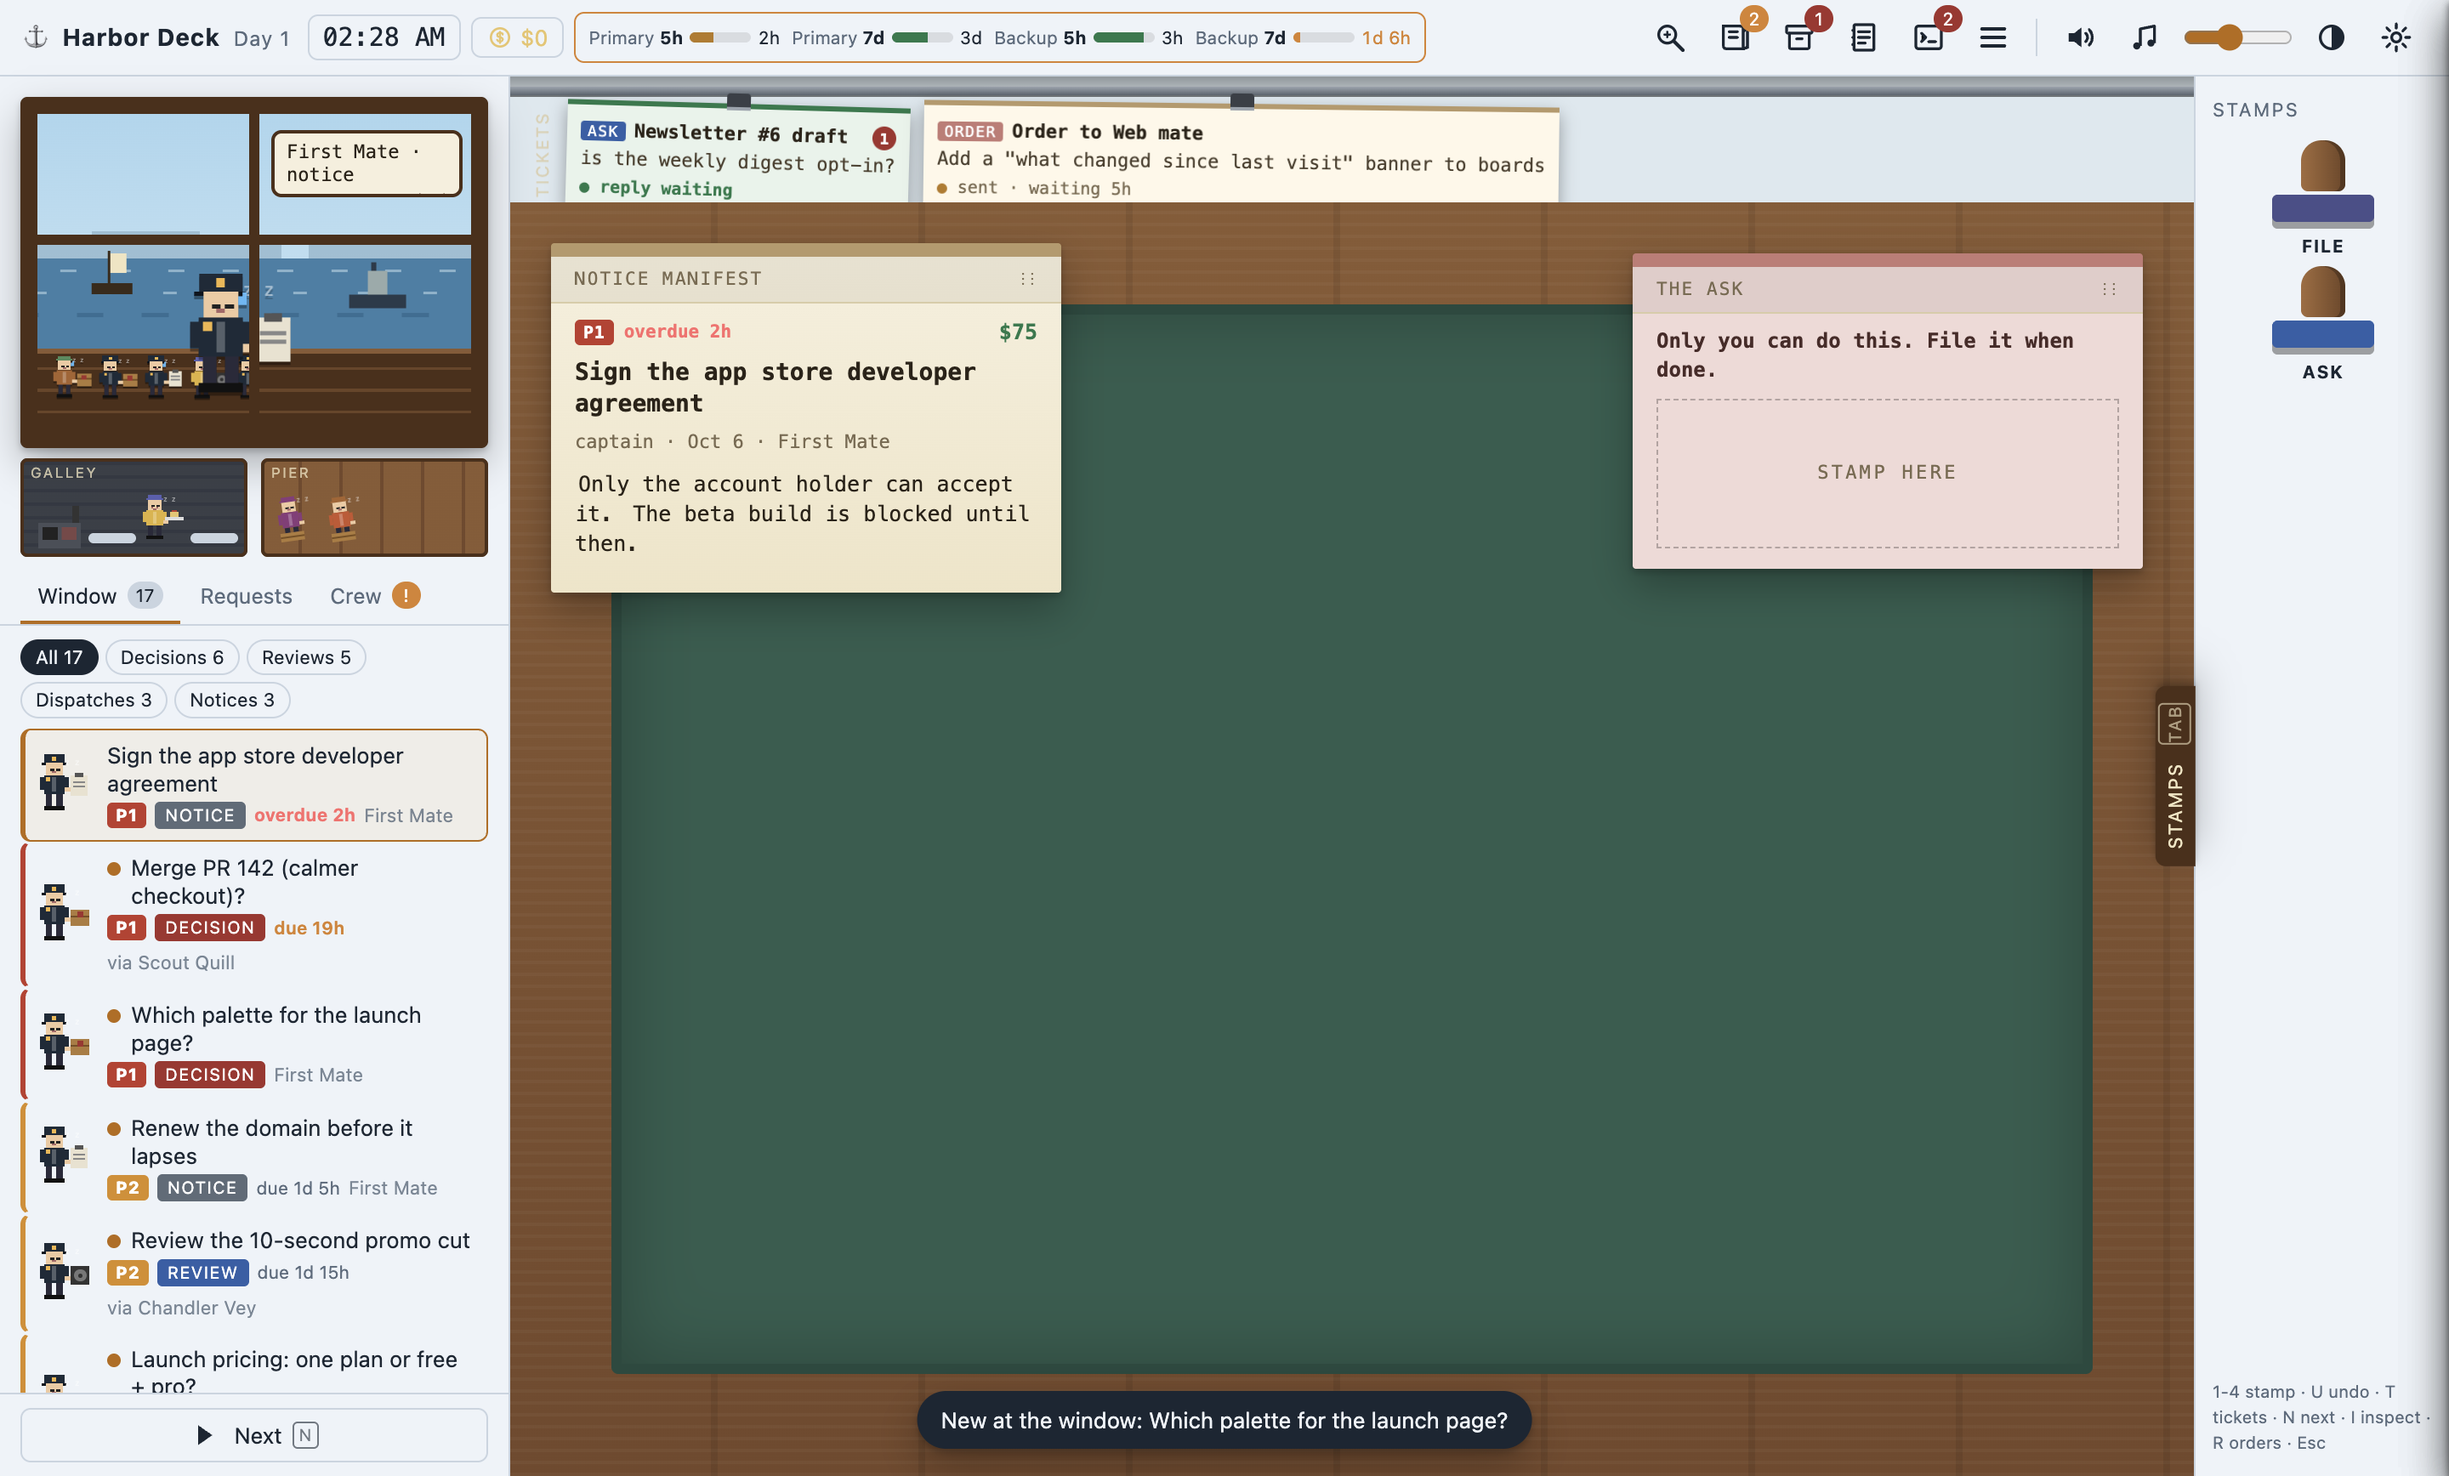
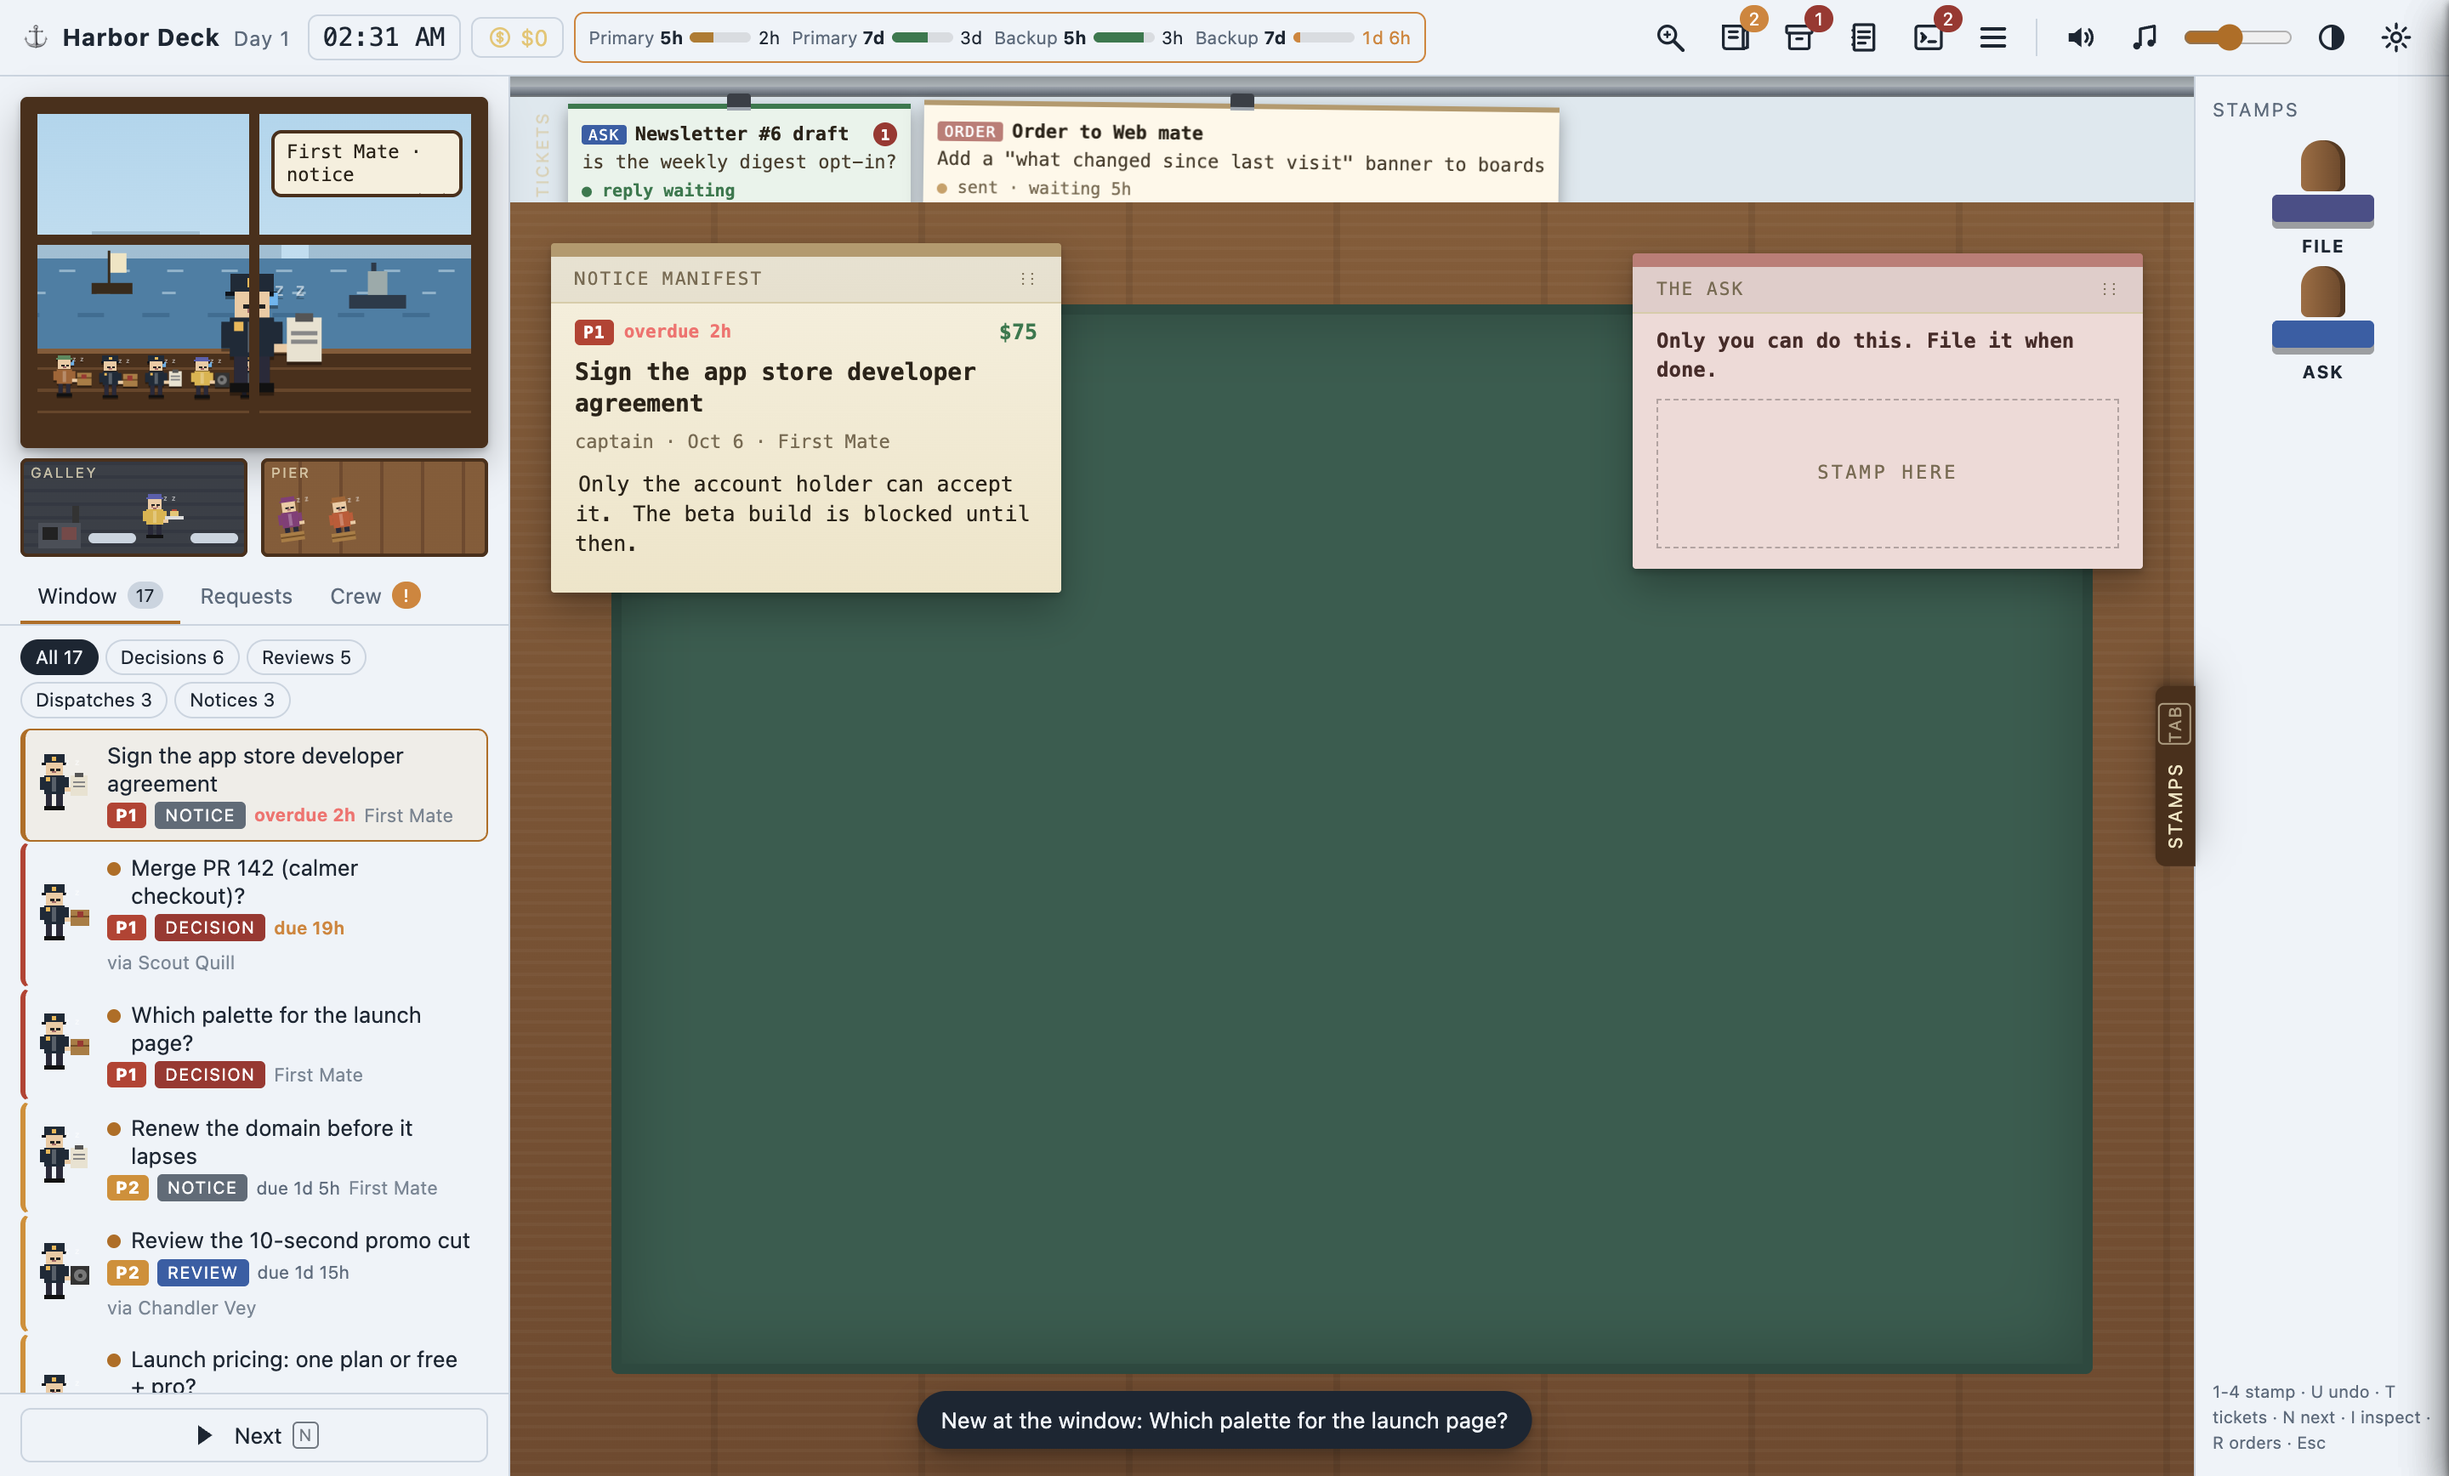
verify-harbordeck: move to .agents/skills (shared convention), relative symlinks from .claude/skills and .cursor/skills; proof rerun from new path

Changed region(s): [[0.2188, 0.0622, 0.375, 0.1555], [0.0625, 0.1866, 0.1562, 0.28]]

diff --git a/.agents/skills/verify-harbordeck/SKILL.md b/.agents/skills/verify-harbordeck/SKILL.md
@@ -13,7 +13,7 @@ Harbor Deck has three surfaces, all tied together by one data directory (`docs/C
 
 Read [`features/README.md`](features/README.md) before choosing a recipe. The feature map is the maintained verification source; a proof that drives one convenient entry point is incomplete when the map lists others.
 
-All paths below are relative to the worktree root. `H=.cursor/skills/verify-harbordeck/scripts/hdv` and `U=.cursor/skills/verify-harbordeck/scripts/ui.mjs` are the two helpers.
+The skill lives in `.agents/skills/verify-harbordeck/`; `.claude/skills/verify-harbordeck` and `.cursor/skills/verify-harbordeck` are relative symlinks to it, so every harness finds the same copy. Edit only the `.agents` path. All paths below are relative to the worktree root. `H=.agents/skills/verify-harbordeck/scripts/hdv` and `U=.agents/skills/verify-harbordeck/scripts/ui.mjs` are the two helpers.
 
 ## Isolation rules
 
@@ -28,7 +28,7 @@ All paths below are relative to the worktree root. `H=.cursor/skills/verify-harb
 Once per worktree: `npm install` (if Electron reports `failed to install correctly`: `npm approve-scripts electron && npm rebuild electron`).
 
 ```bash
-H=.cursor/skills/verify-harbordeck/scripts/hdv
+H=.agents/skills/verify-harbordeck/scripts/hdv
 $H launch            # seeded synthetic data dir (17 items, fleet, quota, rules, 2 answers) + the demo web page on loopback; no pretend agent
 $H launch --demo     # the app's own demo mode instead: same seed in the private profile, plus the pretend agent
 ```
@@ -49,7 +49,7 @@ Every line must be `ok`: app pid alive, the pid runs this worktree's Electron, t
 
 ```bash
 eval "$($H env)"     # HARBORDECK_HOME, CHROME_DEVTOOLS_AXI_BROWSER_URL/SESSION, HDV_HOME, HDV_RUN_ID for this instance
-U=.cursor/skills/verify-harbordeck/scripts/ui.mjs
+U=.agents/skills/verify-harbordeck/scripts/ui.mjs
 ```
 
 **UI: `ui.mjs`** (Playwright over the app's CDP port; each call connects, acts once, disconnects; exit 1 with a one-line reason on failure):

diff --git a/docs/evidence/README.md b/docs/evidence/README.md
@@ -15,4 +15,4 @@ Video: [live-feed.mp4](live-feed.mp4)
 
 ## Verification skill proof run
 
-`docs/evidence/verify-harbordeck/` is one run of the project's verification skill (`.cursor/skills/verify-harbordeck/`) on synthetic data: launch, doctor, an agent's `harbordeck decision` appearing live, key `1` writing `answers.jsonl` after the undo hold, an order queued for after reset in Requests and `harbordeck tick` delivering it through the stub wake command, the demo plan page opening and taking a click in the in-desk browser pane, then cleanup. [`transcript.txt`](verify-harbordeck/transcript.txt) is the full command log with exit codes; the screenshots, `answers.jsonl` and `wake.log` are the captured state.
+`docs/evidence/verify-harbordeck/` is one run of the project's verification skill (`.agents/skills/verify-harbordeck/`) on synthetic data: launch, doctor, an agent's `harbordeck decision` appearing live, key `1` writing `answers.jsonl` after the undo hold, an order queued for after reset in Requests and `harbordeck tick` delivering it through the stub wake command, the demo plan page opening and taking a click in the in-desk browser pane, then cleanup. [`transcript.txt`](verify-harbordeck/transcript.txt) is the full command log with exit codes; the screenshots, `answers.jsonl` and `wake.log` are the captured state.

diff --git a/.agents/skills/verify-harbordeck/features/README.md b/.agents/skills/verify-harbordeck/features/README.md
@@ -1,6 +1,6 @@
 # Harbor Deck verification map
 
-This directory is the maintained source for verifying Harbor Deck's user-facing behavior. Read this index before driving the app, then use the matching feature file as the recipe. `H` and `U` below are `.cursor/skills/verify-harbordeck/scripts/hdv` and `.../ui.mjs`, as in the skill.
+This directory is the maintained source for verifying Harbor Deck's user-facing behavior. Read this index before driving the app, then use the matching feature file as the recipe. `H` and `U` below are `.agents/skills/verify-harbordeck/scripts/hdv` and `.../ui.mjs`, as in the skill.
 
 ## Baseline preconditions
 
